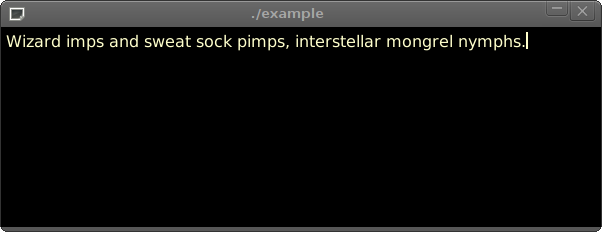
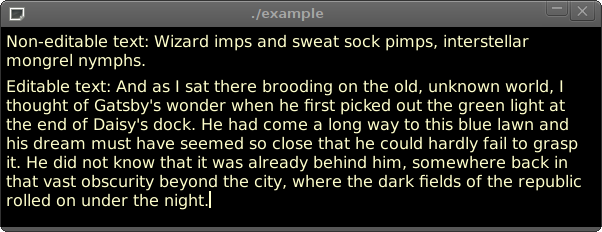
Fixed text alignment in example and updated screenshot (#935)

Changed region(s): [[0.0, 0.3319, 0.9568, 0.9052], [0.0, 0.1509, 0.897, 0.2414], [0.0, 0.2414, 0.2392, 0.3017]]

diff --git a/examples/text/main.c b/examples/text/main.c
@@ -64,8 +64,8 @@ int main(int argc, char *argv[])
 	clutter_text_set_editable (CLUTTER_TEXT (text), TRUE);
 	clutter_text_set_line_wrap (CLUTTER_TEXT (text), TRUE);
 
-  //clutter_actor_set_size (text, 590, 100);
-  clutter_actor_set_position (text, 5, 30);
+  clutter_actor_set_size (text, 590, 100);
+	clutter_actor_set_position (text, 5, 50);
 	clutter_container_add_actor (CLUTTER_CONTAINER (stage), text);
   clutter_actor_show (text);
 
